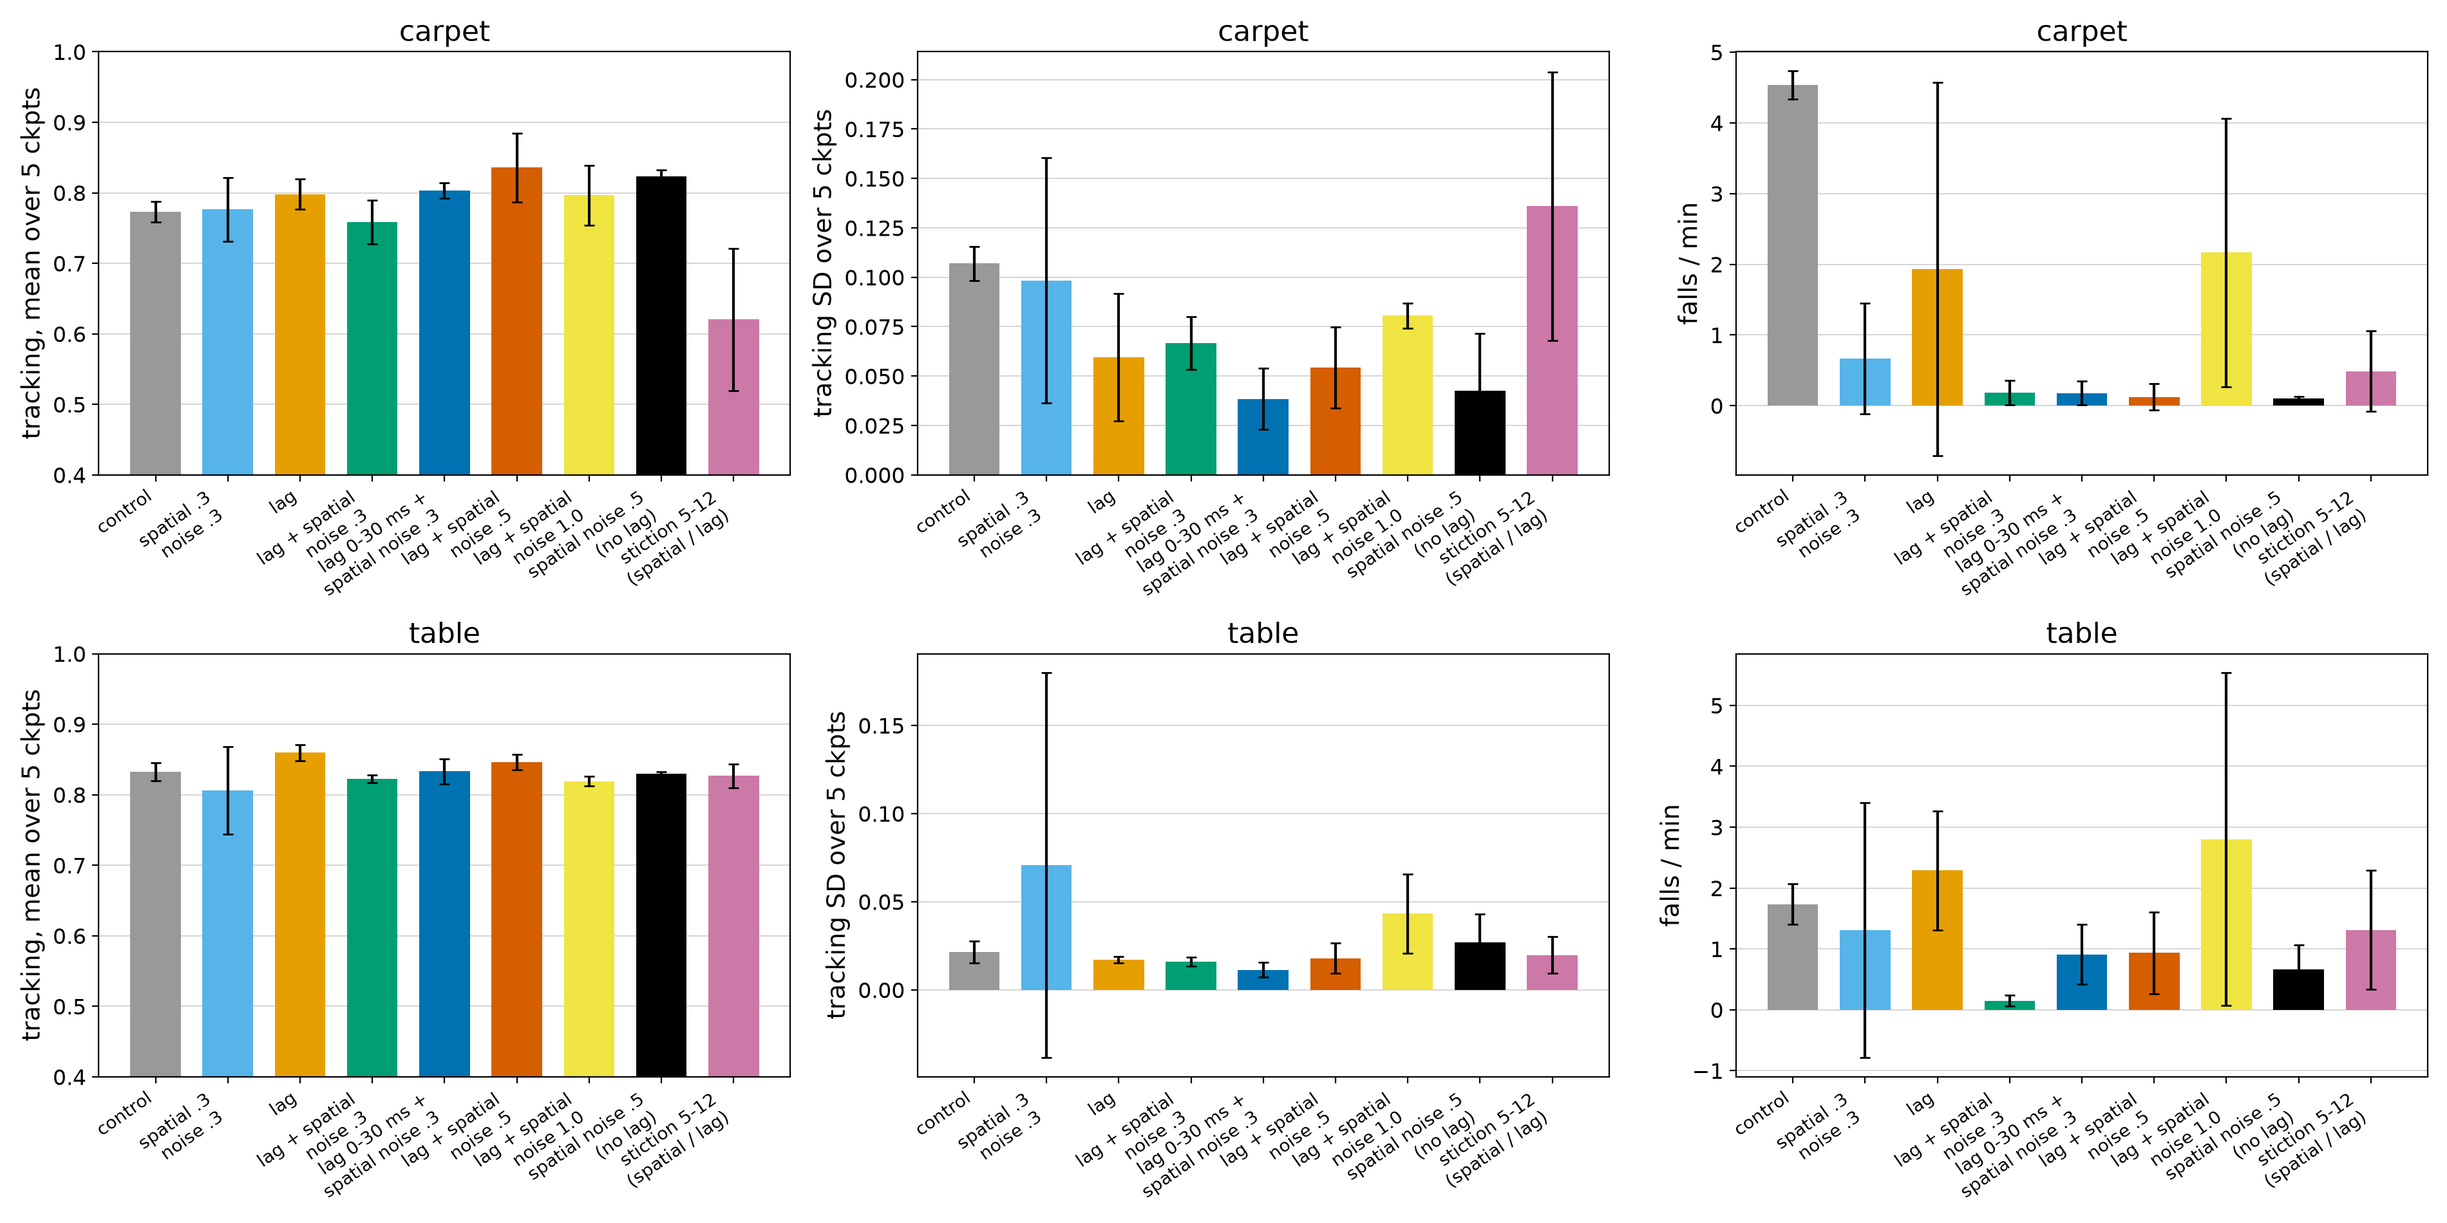
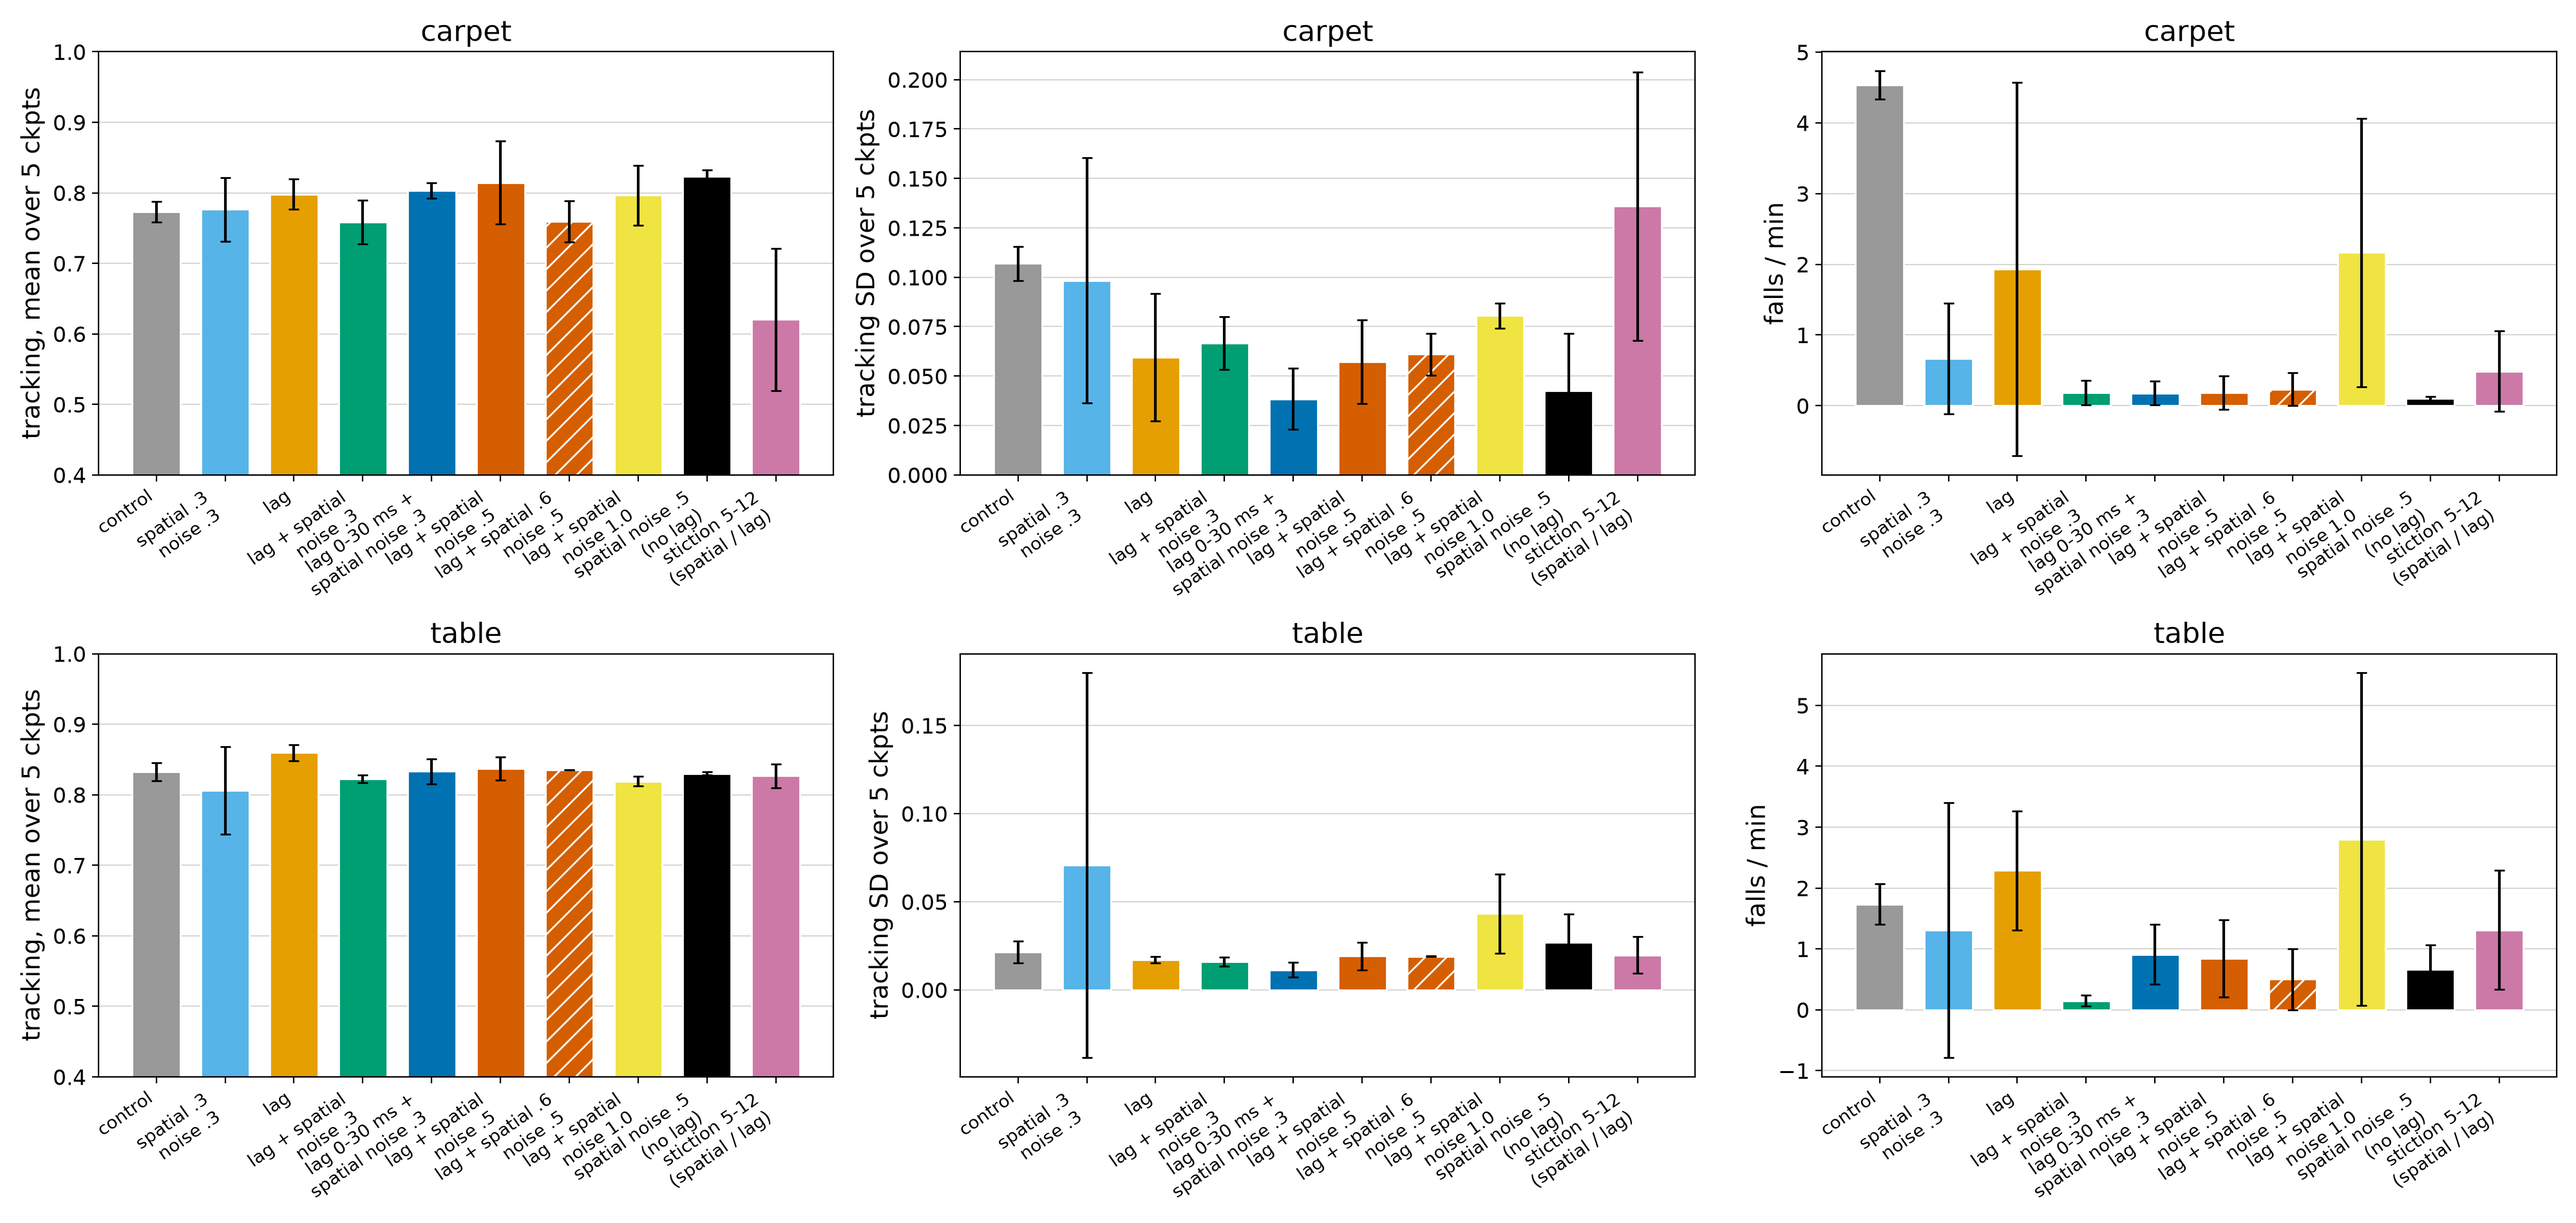
SIM_COMMAND §11: round 6r (recipe over 10 seeds; picks come from checkpoint selection); 6s launcher

diff --git a/tools/robot/dev/r6/fig_r6arms.py b/tools/robot/dev/r6/fig_r6arms.py
@@ -1,4 +1,4 @@
-"""Rounds 6l-6q: mixed-floor arms (smoothing, sensor-lag randomisation, stiction range), level / swing / falls over
+"""Rounds 6l-6r: mixed-floor arms (smoothing, sensor-lag randomisation, stiction range), level / swing / falls over
 the last 5 checkpoints, mean ± std over seeds.  python fig_r6arms.py"""
 import glob, json, re, matplotlib; matplotlib.use('Agg'); import matplotlib.pyplot as plt, numpy as np
 plt.rcParams.update({'axes.titlesize': 16, 'axes.labelsize': 14, 'xtick.labelsize': 10, 'ytick.labelsize': 12, 'legend.fontsize': 12})
@@ -8,7 +8,8 @@ ARMS = [('control', '#999999', [('6l', 'e8210'), ('6l', 'e8211')]),
         ('lag', '#E69F00', [('6m', 'e8220'), ('6m', 'e8221'), ('6m', 'e8222')]),
         ('lag + spatial\nnoise .3', '#009E73', [('6n', f'e{n}') for n in range(8230, 8234)]),
         ('lag 0-30 ms +\nspatial noise .3', '#0072B2', [('6o', 'e8243'), ('6o', 'e8244'), ('6o', 'e8245')]),
-        ('lag + spatial\nnoise .5', '#D55E00', [('6o', 'e8246'), ('6o', 'e8247')] + [('6q', f'e{n}') for n in range(8260, 8264)]),
+        ('lag + spatial\nnoise .5', '#D55E00', [('6o', 'e8246'), ('6o', 'e8247')] + [('6q', f'e{n}') for n in range(8260, 8264)] + [('6r', f'e{n}') for n in range(8270, 8274)]),
+        ('lag + spatial .6\nnoise .5', '#D55E00', [('6r', 'e8274'), ('6r', 'e8275')]),
         ('lag + spatial\nnoise 1.0', '#F0E442', [('6q', 'e8264'), ('6q', 'e8265')]),
         ('spatial noise .5\n(no lag)', '#000000', [('6q', 'e8266'), ('6q', 'e8267')]),
         ('stiction 5-12\n(spatial / lag)', '#CC79A7', [('6p', f'e{n}') for n in range(8250, 8256)])]
@@ -24,13 +25,13 @@ def run(tag, exp):
 
 
 M = [('level', 'tracking, mean over 5 ckpts'), ('swing', 'tracking SD over 5 ckpts'), ('falls', 'falls / min')]
-fig, axes = plt.subplots(2, 3, figsize=(19, 9.5))
+fig, axes = plt.subplots(2, 3, figsize=(20, 9.5))
 for row, (floor, sfx) in enumerate([('carpet', 'c'), ('table', 't')]):
   for j, (k, ylab) in enumerate(M):
     ax = axes[row, j]
     for i, (lab, col, exps) in enumerate(ARMS):
       v = [run(f'sel{r}_{sfx}', e)[k] for r, e in exps]
-      ax.bar(i, np.mean(v), 0.7, yerr=np.std(v), color=col, capsize=3, label=lab.replace('\n', ' '))
+      ax.bar(i, np.mean(v), 0.7, yerr=np.std(v), color=col, capsize=3, hatch='//' if '.6' in lab else None, edgecolor='white', label=lab.replace('\n', ' '))
     ax.set_xticks(range(len(ARMS)), [a[0] for a in ARMS], rotation=35, ha='right'); ax.set_ylabel(ylab); ax.set_title(floor)
     if k == 'level': ax.set_ylim(0.4, 1)
     ax.grid(axis='y', color='#d5d5d2', lw=0.7); ax.set_axisbelow(True)

diff --git a/docs/robot/SIM_COMMAND.md b/docs/robot/SIM_COMMAND.md
@@ -835,11 +835,37 @@ worst variant 0.82) and 0.86 on the table (0.1 falls, worst variant 0.84),
 slightly ahead of e8247 on the table, and becomes the mixed pick with e8247
 as its second seed.
 
-![rounds 6l-6q](figs/r6_arms.png)
+![rounds 6l-6r](figs/r6_arms.png)
 
-Figure: rounds 6l-6q, mixed-floor arms. Tracking (fit corr) averaged over
+Figure: rounds 6l-6r, mixed-floor arms. Tracking (fit corr) averaged over
 the last five checkpoints, its SD across them, and falls per minute; bars
-are mean ± std over seeds (n=2-6). 
+are mean ± std over seeds (n=2-10).
+
+Round 6r (p100, 4 h): four more seeds of the recipe (now n=10 with 6o and
+6q), spatial weight 0.6 (n=2), and the carpet-only lag recipe with the
+spatial term at noise 0.5 (n=2).
+
+| arm | n | carpet corr | swing | falls/min | table corr | swing | falls/min |
+|---|---|---|---|---|---|---|---|
+| lag + spatial 0.3, noise 0.5 | 10 | 0.82 ± 0.06 | 0.06 | 0.2 | 0.83 ± 0.02 | 0.02 | 0.8 |
+| lag + spatial 0.6, noise 0.5 | 2 | 0.76 ± 0.03 | 0.06 | 0.3 | 0.84 ± 0.01 | 0.02 | 0.5 |
+| carpet only + lag + spatial 0.3, noise 0.5 | 2 | 0.90 ± 0.02 | 0.02 | 0.3 | | | |
+
+With ten seeds the recipe's carpet mean drops to 0.82: about one seed in
+four lands at 0.69-0.80. So between the arms that use the lag randomisation
+or the spatial term, differences in tracking level are within the spread
+between seeds. What holds across all of them is the drop in falls and in
+checkpoint swing against the control (4.5 to 0.1-0.3 falls/min on carpet).
+The picks therefore come from selection: sweep five checkpoints of each run,
+then confirm the best few in ten-minute evaluations. e8261 @838500 stays the
+pick: in sim it tracks 0.82-0.93 on every robustness variant on both floors
+(worst: carpet stiction 10). A weight of 0.6 does not help. On carpet only,
+the spatial term at noise 0.5 costs a little tracking (0.90 against 0.93
+without it).
+
+The sim results are now close to saturated: the best mixed policy is within
+0.01 of the carpet-only one on carpet and has no weak robustness variant.
+The open question is the robot, which only Monday's test can answer. 
 
 Round 6p (p100, 4 h): the weakest variant of every mixed pick is carpet
 stiction 10 (`rs10`, outside the training range 5-9), so the carpet
